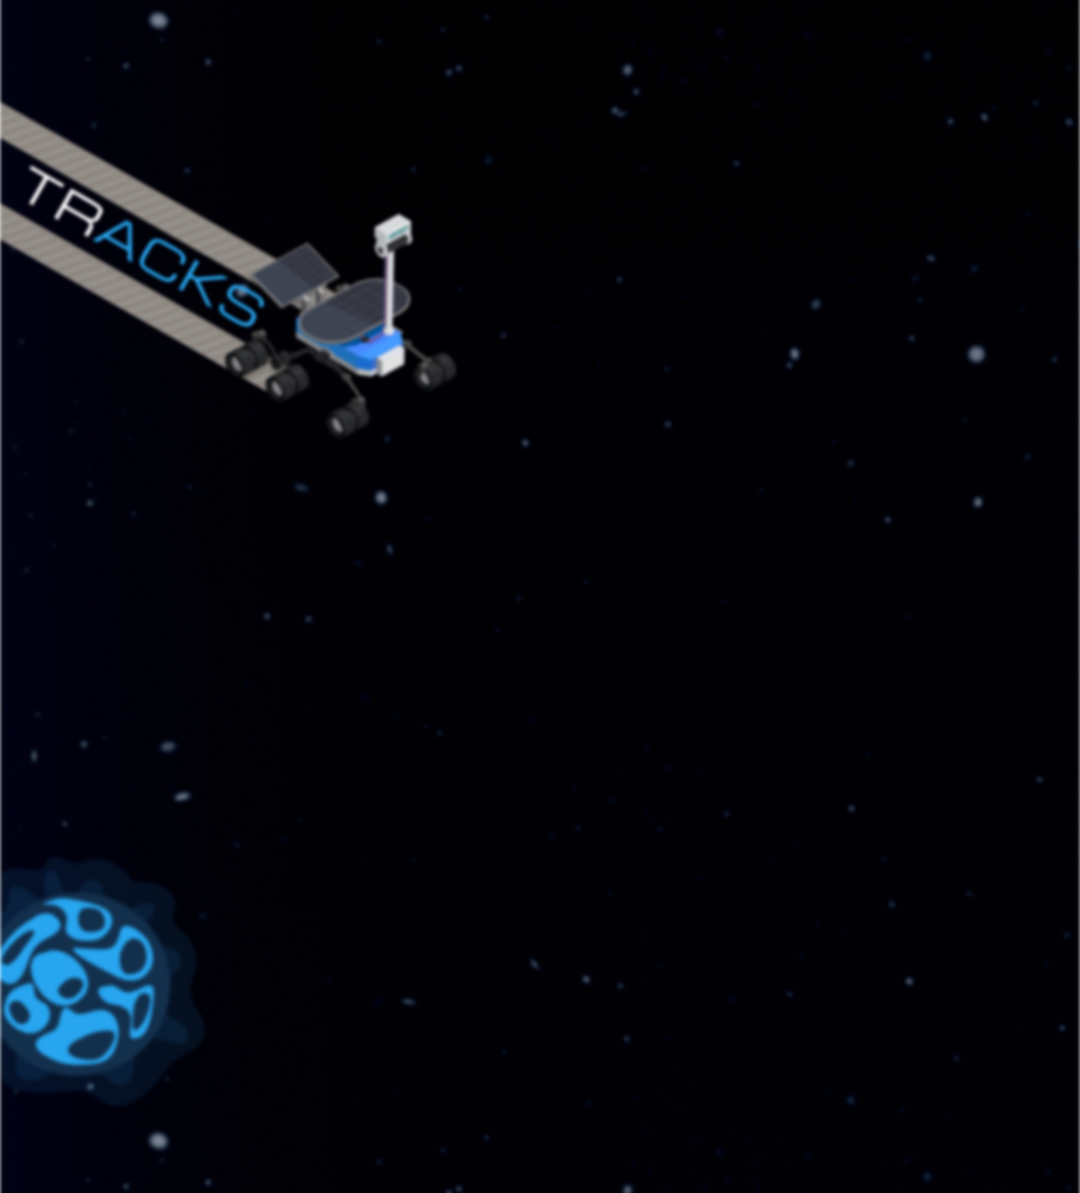
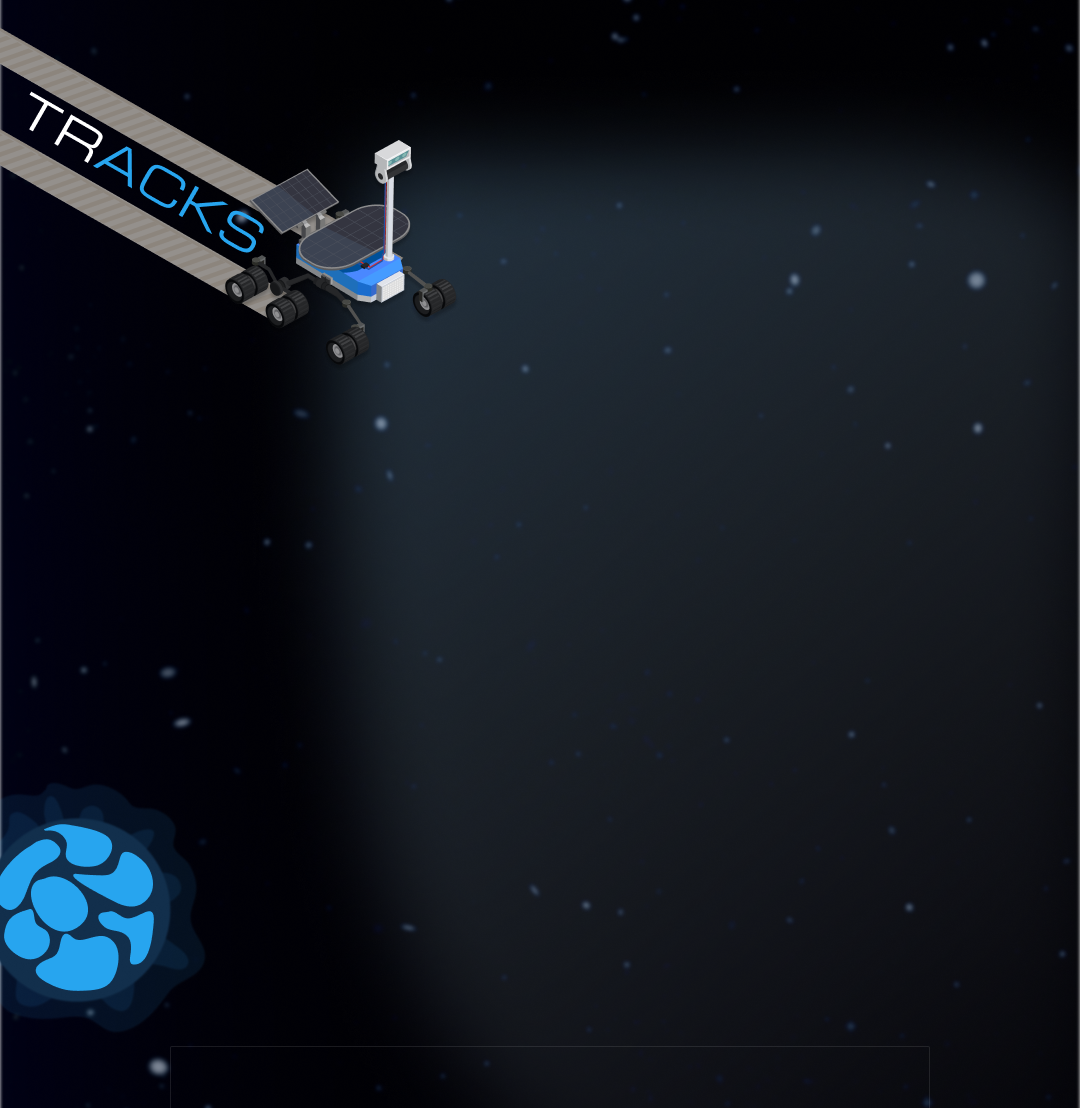
final commit

diff --git a/src/App.js b/src/App.js
@@ -2,36 +2,42 @@ import React, { useState, useEffect } from 'react';
 import TrackCard from './Trackcards';
 
 const App = () => {
-  const [isDesktop, setIsDesktop] = useState(window.innerWidth >= 768);
+  const [isMobile, setIsMobile] = useState(window.innerWidth <= 768);
+
+  const handleResize = () => {
+    setIsMobile(window.innerWidth <= 768);
+  };
 
   useEffect(() => {
-    const handleResize = () => {
-      const screenWidth = window.innerWidth;
-      setIsDesktop(screenWidth >= 768);
-    };
-
     window.addEventListener('resize', handleResize);
+
     return () => {
       window.removeEventListener('resize', handleResize);
     };
   }, []);
 
   return (
-    <div className="relative min-h-screen flex justify-end items-end">
-      {/* Background */}
-      <div className="absolute inset-0 z-[-1]">
-        {isDesktop ? (
-          <img src="/images/desktop_bg.png" alt="Desktop Background" className="object-cover w-full h-full" />
-        ) : (
-          <img src="/images/mobile_bg.png" alt="Mobile Background" className="object-cover w-full h-full" />
-        )}
-      </div>
-
-      <div className="absolute inset-0 flex flex-col items-end justify-center pb-8 pr-4 md:pb-12 md:pr-8 lg:pb-16 lg:pr-12 xl:pb-20 xl:pr-16">
-        <TrackCard title="TRACK 01" icon="/images/scholar.png" positionRight={true} isDesktop={isDesktop} />
-        <TrackCard title="TRACK 02" icon="/images/medical.png" positionRight={false} isDesktop={isDesktop} />
-        <TrackCard title="TRACK 03" icon="/images/education.png" positionRight={true} isDesktop={isDesktop} />
-        <TrackCard title="TRACK 04" icon="/images/currency.png" positionRight={false} isDesktop={isDesktop} />
+    <div
+      className="relative h-screen"
+      style={{
+        backgroundImage: isMobile
+          ? "url('/images/mobile_bg.png')"
+          : "url('/images/desktop_bg.png')",
+        backgroundSize: '100% 100%',
+        backgroundPosition: 'center',
+      }}
+    >
+      <div
+        className={`absolute ${
+          isMobile
+            ? 'top-[22%] right-[40%] w-1 h-1/4'
+            : 'top-[15%] left-2/3 h-1/2 md:top-[13%] md:left-3/4 md:transform md:-translate-x-1/2 md:h-1/4 lg:left-[80%] lg:h-1/8 lg:top:[10%'
+        } flex flex-col gap-0 md:gap-4 lg:gap-0`}
+      >
+        <TrackCard title="TRACK 01" icon="/images/scholar.png" positionRight={true}  />
+        <TrackCard title="TRACK 02" icon="/images/medical.png" positionRight={false}  />
+        <TrackCard title="TRACK 03" icon="/images/education.png" positionRight={true}  />
+        <TrackCard title="TRACK 04" icon="/images/currency.png" positionRight={false}  />
       </div>
     </div>
   );

diff --git a/src/Trackcards.jsx b/src/Trackcards.jsx
@@ -26,16 +26,16 @@ const TrackCard = ({ title, icon, positionRight }) => {
         className={`w-10 h-10 sm:w-12 sm:h-12 md:w-14 md:h-14 mr-4 transition-transform ${
           isHovered ? 'scale-110' : 'scale-100'
         }`}
-      />
-      <span className="flex items-center text-center">
-        <span
-          className={`font-poppins text-white text-base sm:text-lg md:text-xl lg:text-2xl xl:text-3xl ${titleMarginClass}`}
-        >
-          {title}
+        />
+        <span className="flex items-center text-center">
+          <span
+            className={`font-poppins text-white text-base sm:text-lg md:text-xl lg:text-2xl xl:text-3xl ${titleMarginClass}`}
+          >
+            {title}
+          </span>
         </span>
-      </span>
-    </div>
-  );
-};
-
-export default TrackCard;
+      </div>
+    );
+  };
+  
+  export default TrackCard;
